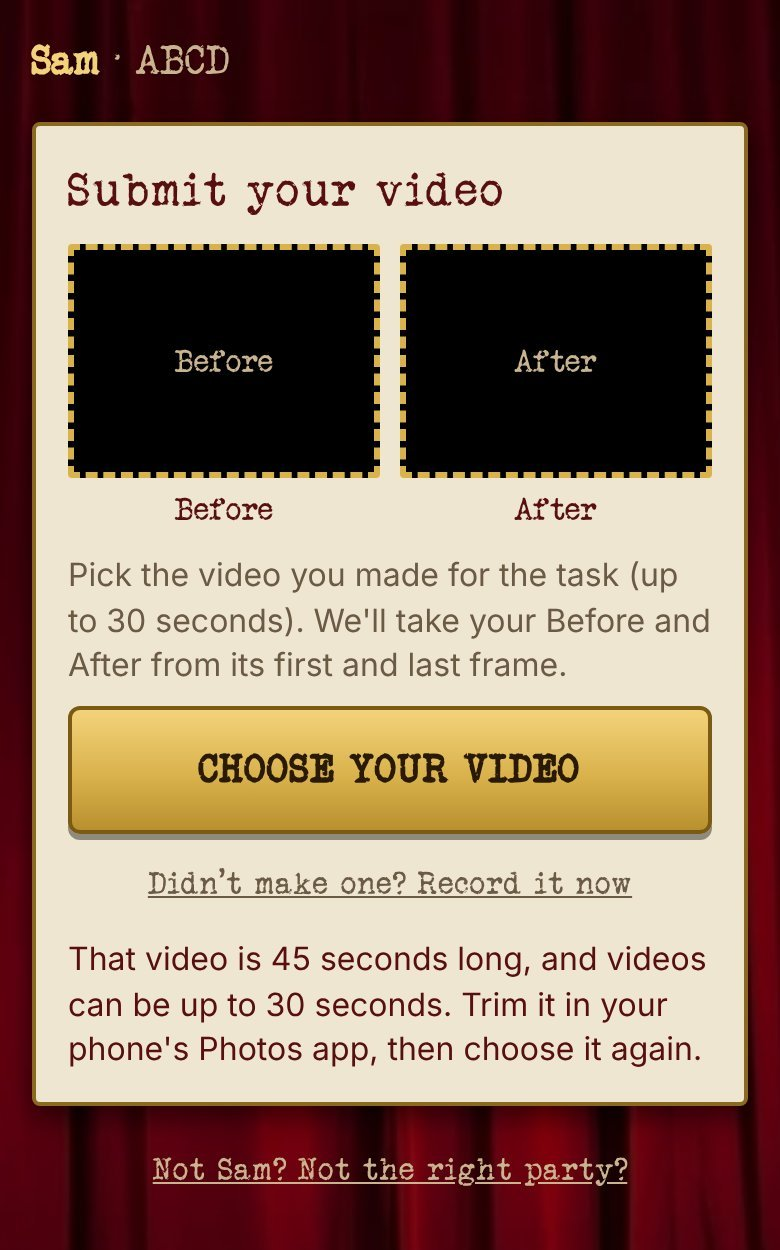
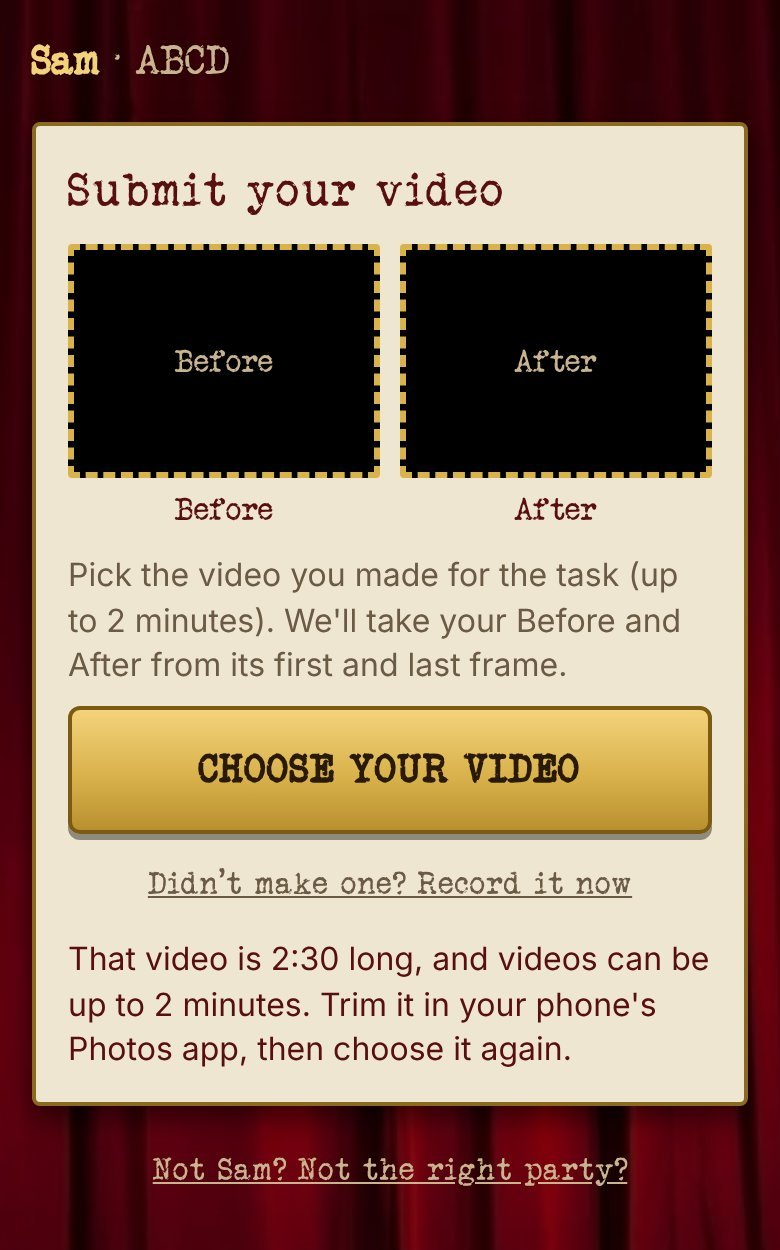
Raise the video cap to 2 minutes and 300 MB
Jeffrey wants room for longer clips with only six guests. 300 MB fits a
2-minute 1080p clip in any phone format; storage.rules matches.

Claude-Session: https://claude.ai/code/session_0186E2BtR8zS3FGZxRsKtFGF

Changed region(s): [[0.0923, 0.7488, 0.9231, 0.8736], [0.1538, 0.468, 0.8923, 0.5304]]

diff --git a/src/videoLimits.ts b/src/videoLimits.ts
@@ -3,10 +3,10 @@
  *
  * The length is checked on the phone only (Storage can't read a video's length). The size is the hard
  * cap: storage.rules refuses anything bigger, so keep MAX_VIDEO_MB in step with the `video-` rule there.
- * 100 MB fits any 30-second phone clip at 1080p, even iPhone's "Most Compatible" (about 65 MB).
+ * 300 MB fits any 2-minute phone clip at 1080p, even iPhone's "Most Compatible" (about 260 MB).
  */
-export const MAX_VIDEO_SECONDS = 30;
-export const MAX_VIDEO_MB = 100;
+export const MAX_VIDEO_SECONDS = 120;
+export const MAX_VIDEO_MB = 300;
 
 // Phones round a clip's length, so a "0:30" video can be 30.4s.
 const LENGTH_GRACE_SECONDS = 0.5;

diff --git a/docs/screens/README.md b/docs/screens/README.md
@@ -120,8 +120,8 @@ Host pin (taken on 2026-10-13, from the real components with a made-up party):
 | `main-pin-open.jpg` | The big screen opening a pinned party: the same pin step at TV size, gold "Open the party", "📺 Show it here too" needing no pin |
 | `main-hidden-menu-pin.jpg` | The ☰ Menu with "🔑 Host pin on: a new phone needs it to connect. Remove the pin" |
 
-Video limits (taken on 2026-10-14, from the real `PlayerView` with a made-up party and a 45-second test video):
+Video limits (taken on 2026-10-14, from the real `PlayerView` with a made-up party and a 2½-minute test video):
 
 | File | What it shows |
 |---|---|
-| `before-after-player-too-long.jpg` | Before & After on a guest's phone: the hint now says "up to 30 seconds", and the error after choosing a longer video ("That video is 45 seconds long… Trim it in your phone's Photos app, then choose it again."). A file over 100 MB gets the same kind of error before it's even read |
+| `before-after-player-too-long.jpg` | Before & After on a guest's phone: the hint now says "up to 2 minutes", and the error after choosing a longer video ("That video is 2:30 long… Trim it in your phone's Photos app, then choose it again."). A file over 300 MB gets the same kind of error before it's even read |
